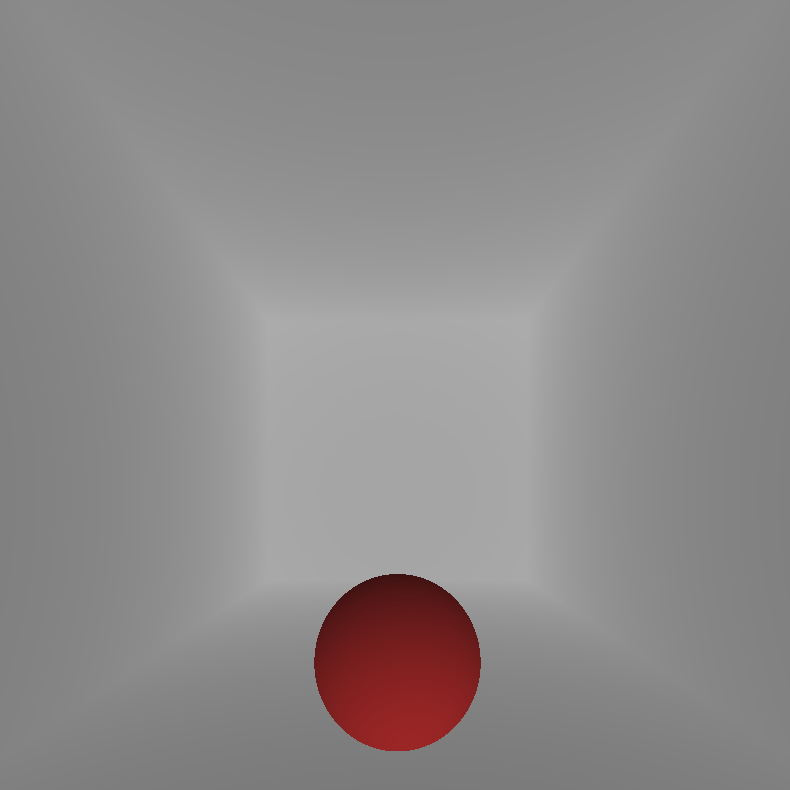
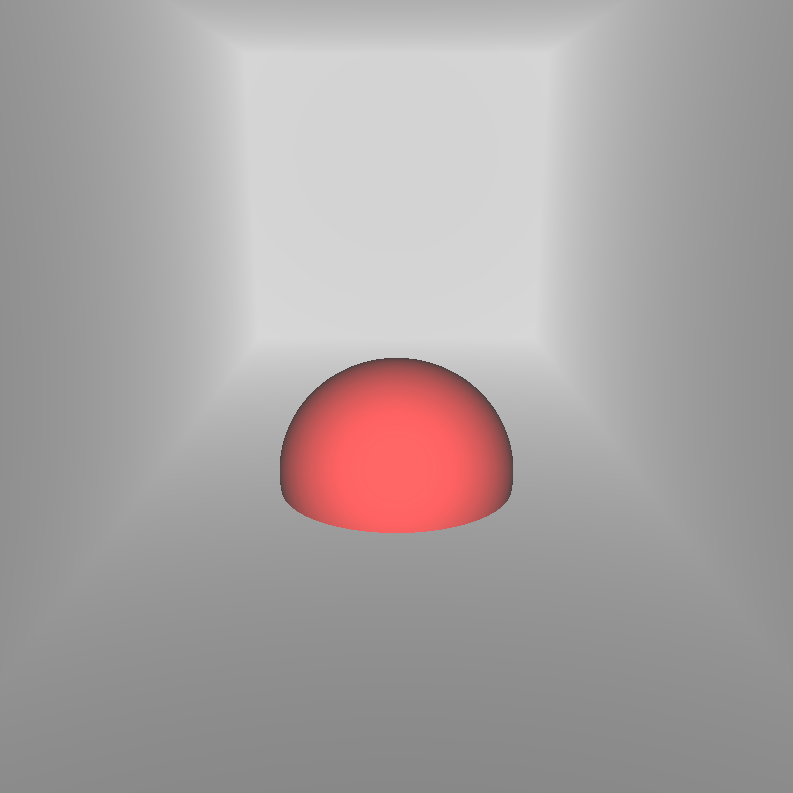
Fixed sphere math.

diff --git a/src/Sphere.cpp b/src/Sphere.cpp
@@ -23,9 +23,16 @@ bool SolveQuadratic(
 	float& x1)
 {
 	float discr = b * b - 4 * a * c;
-	if (discr < 0) return false;
-	else if (discr == 0) x0 = x1 = -0.5 * b / a;
-	else {
+	if (discr < 0)
+	{
+		return false;
+	}
+	else if (discr == 0)
+	{
+		x0 = x1 = -0.5 * b / a;
+	}
+	else 
+	{
 		float q = (b > 0) ?
 			-0.5 * (b + sqrt(discr)) :
 			-0.5 * (b - sqrt(discr));
@@ -44,31 +51,34 @@ rt::Sphere::IsIntersecting(
 	double& aOutDistance,
 	double& aLight)
 {
-	auto ray = (aRayVector - aRayOrigin).Normalize();
-
-	float t0, t1; 
+	auto D = aRayVector.Normalize();
 				  
-	Vector<float> L = myCenter;
-	float a = ray * ray;
-	float b = ray * L * 2;
-	float c = L * L - (myRadius * myRadius);
-	if (!SolveQuadratic(a, b, c, t0, t1)) return false;
-	
-	if (t0 > t1)
+	Vector<float> L = myCenter - aRayOrigin;
+	float Tca = L * D;
+	if (Tca < 0)
 	{
-		std::swap(t0, t1);
+		return false;
 	}
 
-	if (t0 < 0) {
-		t0 = t1; // if t0 is negative, let's use t1 instead 
-		if (t0 < 0) return false; // both t0 and t1 are negative 
+	float d = sqrtf((L*L) - (Tca*Tca));
+	if (d > myRadius)
+	{
+		return false;
+	}
+
+	float Thc = sqrtf(myRadius * myRadius - d * d);
+	float t0 = Tca - Thc;
+	float t1 = Tca + Thc;
+	if (t1 < t0)
+	{
+		t0 = t1;
 	}
 
 	aOutDistance = t0;
 
 	// Hack for shading
-	rt::Vector<float> Phit = aRayOrigin + ray * t0;
-	aLight = std::abs(ray * (Phit - myRadius).Normalize());
+	rt::Vector<float> Phit = aRayOrigin + D * t0;
+	aLight = std::abs(D * (Phit - myCenter).Normalize());
 
 	return true;
 }

diff --git a/src/main.cpp b/src/main.cpp
@@ -72,9 +72,9 @@ int main(int argc, char* argv[])
 	rt::Camera camera;
 	rt::World world;
 	rt::Plane plane1(rt::ColorName::GREY);
-	rt::Sphere sphere1(rt::Vector<float>(0.0f, 20.0f, -150.0f), 10.0f, rt::SPHERE);
-	rt::Plane plane2(rt::Vector<float>(-5.0f, 0.0f, 0.0f), rt::Vector<float>(150.0f, 0.0f, 0.0f), rt::ColorName::GREY);
-	rt::Plane plane3(rt::Vector<float>(5.0f, 0.0f, 0.0f), rt::Vector<float>(-150.0f, 0.0f, 0.0f), rt::ColorName::GREY);
+	rt::Sphere sphere1(rt::Vector<float>(0.0f, 10.0f, 50.0f), 70.0f, rt::SPHERE);
+	rt::Plane plane2(rt::Vector<float>(-1.0f, 0.0f, 0.0f), rt::Vector<float>(150.0f, 0.0f, 0.0f), rt::ColorName::GREY);
+	rt::Plane plane3(rt::Vector<float>(1.0f, 0.0f, 0.0f), rt::Vector<float>(-150.0f, 0.0f, 0.0f), rt::ColorName::GREY);
 	rt::Plane plane4(rt::Vector<float>(0.0f, -1.0f, 0.0f), rt::Vector<float>(0.0f, 300.0f, 0.0f), rt::ColorName::GREY);
 	rt::Plane plane5(rt::Vector<float>(0.0f, 0.0f, 1.0f), rt::Vector<float>(0.0f, 0.0f, 470.0f), rt::ColorName::GREY);
 	world.myShapes.push_back(&plane1);
@@ -106,6 +106,12 @@ int main(int argc, char* argv[])
 					break;
 				case SDLK_DOWN:
 					camera.MoveDown(0.05f);
+					break;
+				case SDLK_LEFT:
+					camera.MoveLeft(0.05f);
+					break;
+				case SDLK_RIGHT:
+					camera.MoveRight(0.05f);
 					break;
 				default:
 					break;

diff --git a/inc/Vector.hpp b/inc/Vector.hpp
@@ -19,6 +19,7 @@ namespace rt
 		T GetY() const;
 		T GetZ() const;
 
+		void SetX(const T& aX);
 		void SetZ(const T& aZ);
 		void SetY(const T& aY);
 
@@ -46,6 +47,7 @@ namespace rt
 		T myY; 
 		T myZ;
 	};
+
 
 }
 
@@ -88,19 +90,23 @@ rt::Vector<T>::GetZ() const
 	return myZ;
 }
 
+template <typename T>
+void rt::Vector<T>::SetX(const T& aX)
+{
+	myX = aX;
+}
+
 template<typename T>
 void rt::Vector<T>::SetZ(const T& aZ)
 {
 	myZ = aZ;
 }
 
-
 template<typename T>
 void rt::Vector<T>::SetY(const T& aY)
 {
 	myY = aY;
 }
-
 
 template<typename T>
 rt::Vector<T>

diff --git a/inc/Camera.hpp b/inc/Camera.hpp
@@ -35,10 +35,13 @@ namespace rt
 		Vector<float> GetTilt		() const;
 		void MoveUp					(float aPixels);
 		void MoveDown				(float aPixels);
+		void MoveRight				(float aPixels);
+		void MoveLeft				(float aPixels);
+
 	private:
 		void PrivCalculateRays();
 
-		Vector<float> myPosition{ 0.0f, 200.0f, -150.0f };
+		Vector<float> myPosition{ 0.0f, 200.0f, -420.0f };
 		Vector<float> myDirection{ 0.0f, -0.3f, 1.0f }; //r
 		Vector<float> myTilt{ 1.0f, 0.0f, 0.0f }; //p
 		float myFocalDistance = DEFAULT_FOCAL_DISTANCE;

diff --git a/src/Camera.cpp b/src/Camera.cpp
@@ -63,6 +63,22 @@ rt::Camera::MoveDown(
 	PrivCalculateRays();
 }
 
+void
+rt::Camera::MoveRight(
+	float aPixels)
+{
+	myDirection.SetX(myDirection.GetX() + aPixels);
+	PrivCalculateRays();
+}
+
+void
+rt::Camera::MoveLeft(
+	float aPixels)
+{
+	myDirection.SetX(myDirection.GetX() - aPixels);
+	PrivCalculateRays();
+}
+
 void 
 rt::Camera::PrivCalculateRays()
 {
